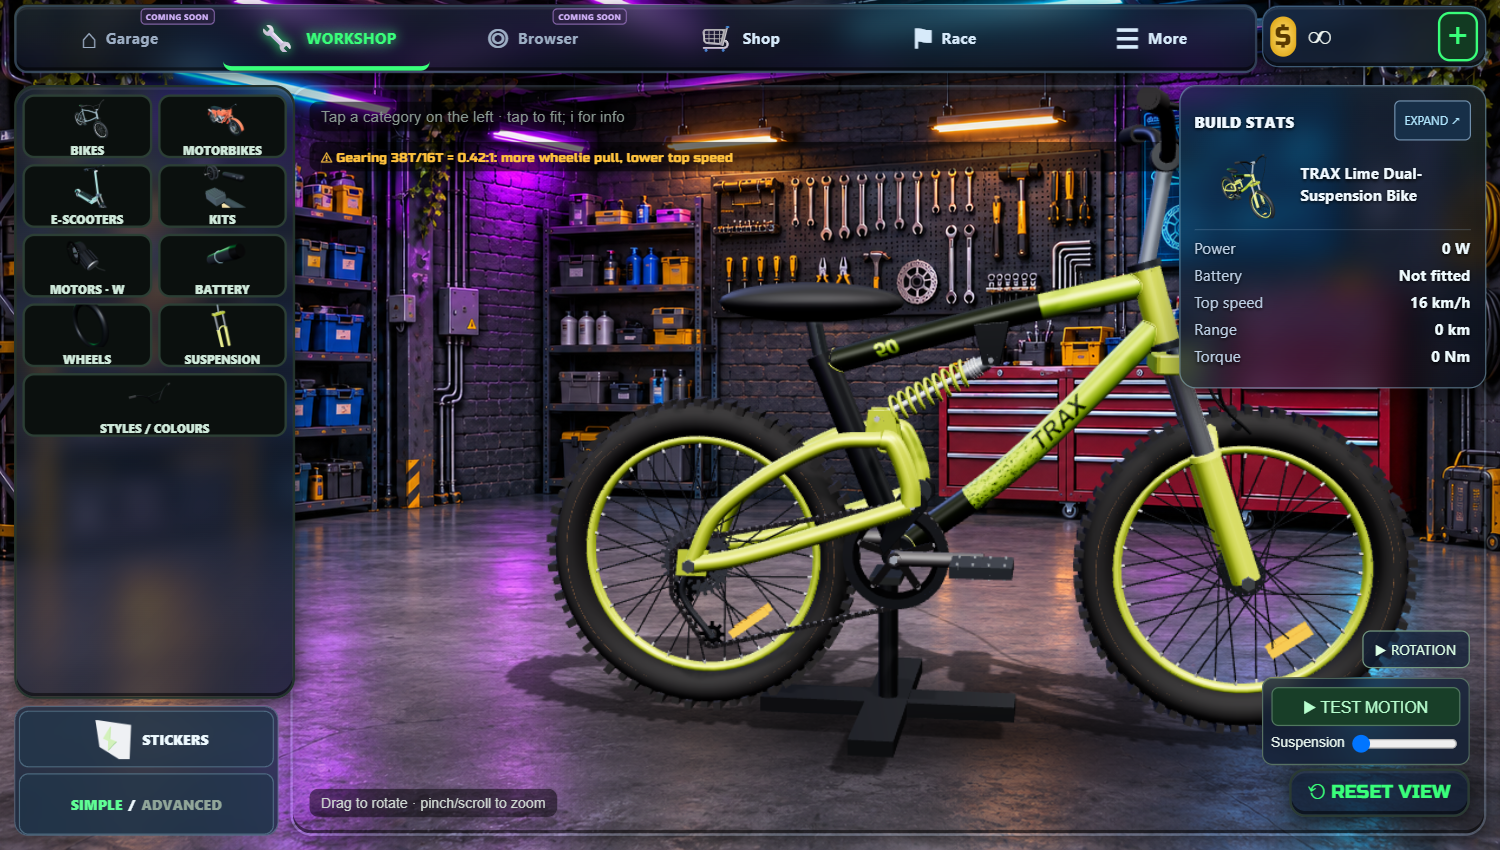
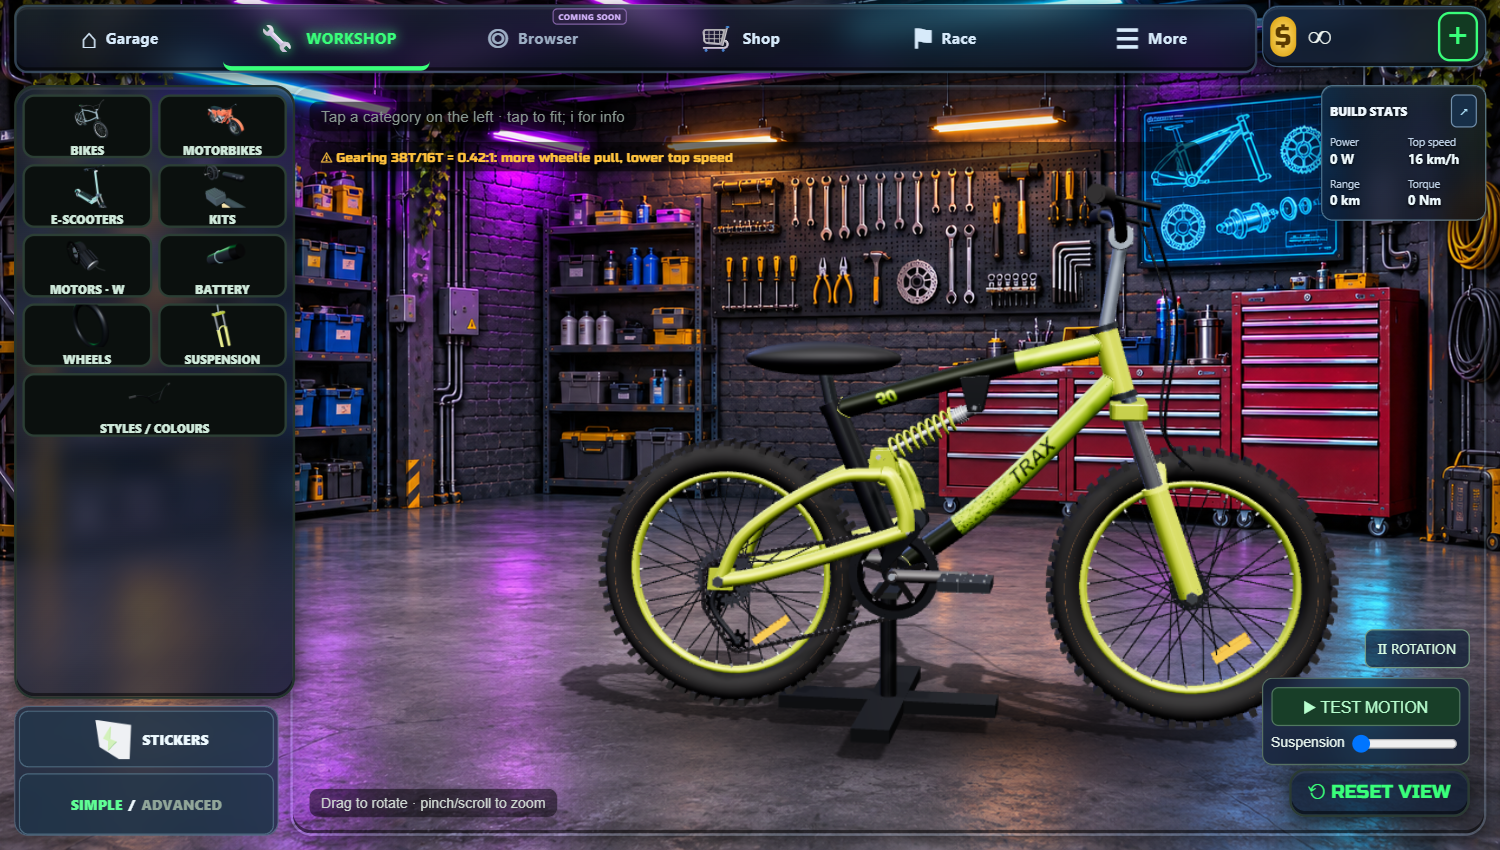
Frame workshop opening and reset view around the complete bike

diff --git a/workshop-presentation.js b/workshop-presentation.js
@@ -2,8 +2,14 @@ import {part} from './modular-catalogue.js';
 import {prototypeFor} from './vehicle-platforms.js';
 import * as T from './vendor/three.module.js';
 let summary,lastView,lastRoot,lastKey='',lastPlatform;
-function fitVehicle(v,root){const bounds=new T.Box3().setFromObject(root),sphere=bounds.getBoundingSphere(new T.Sphere()),center=sphere.center.clone(),dir=v.camera.position.clone().sub(v.controls.target).normalize(),half=v.camera.fov*Math.PI/360,dist=sphere.radius/Math.sin(Math.min(half,Math.atan(Math.tan(half)*v.camera.aspect)))*.86;center.x=v.orbitAnchor?.x??center.x;v.camera.zoom=1;v.camera.position.copy(center).addScaledVector(dir,dist);v.controls.target.copy(center);v.camera.updateProjectionMatrix();v.controls.update();}
-document.addEventListener('click',e=>{if(e.target.closest('[data-wk-reset]')&&prototypeFor(globalThis.__WK_BUILD__?.frame))setTimeout(()=>{const v=globalThis.__WK_VIEW__;let root;v.scene.traverse(o=>{if(o.name==='wk:frame')root=o.parent});if(root)fitVehicle(v,root)},0)});
+function fitVehicle(v,root){
+ root.updateWorldMatrix(true,true);const bounds=new T.Box3().setFromObject(root),center=bounds.getCenter(new T.Vector3());if(bounds.isEmpty())return;
+ center.x=v.orbitAnchor?.x??center.x;center.z=v.orbitAnchor?.z??center.z;
+ const direction=new T.Vector3(.16,.12,1).normalize(),right=new T.Vector3().crossVectors(new T.Vector3(0,1,0),direction).normalize(),up=new T.Vector3().crossVectors(direction,right),tanV=Math.tan(v.camera.fov*Math.PI/360),tanH=tanV*v.camera.aspect;
+ let distance=.8;for(const x of [bounds.min.x,bounds.max.x])for(const y of [bounds.min.y,bounds.max.y])for(const z of [bounds.min.z,bounds.max.z]){const q=new T.Vector3(x,y,z).sub(center),depth=q.dot(direction);distance=Math.max(distance,Math.abs(q.dot(right))/(tanH*.89)+depth,Math.abs(q.dot(up))/(tanV*.88)+depth)}
+ const damping=v.controls.enableDamping,rotating=v.controls.autoRotate;v.controls.autoRotate=false;v.controls.enableDamping=false;v.controls.update();v.camera.zoom=1;v.camera.position.copy(center).addScaledVector(direction,distance);v.controls.target.copy(center);v.camera.updateProjectionMatrix();v.controls.update();v.controls.enableDamping=damping;v.controls.autoRotate=rotating;
+}
+ document.addEventListener('click',e=>{if(e.target.closest('[data-wk-reset]'))setTimeout(()=>{const v=globalThis.__WK_VIEW__;if(!v)return;let root;v.scene.traverse(o=>{if(o.name==='wk:frame')root=o.parent});if(root)fitVehicle(v,root)},0)});
 const style=document.createElement('style');style.textContent=`
 html,body{background:#080c16 url('./icons/neon-garage-background.png') center/cover fixed no-repeat}#root>div,[data-stage]{background:transparent!important}[data-scene]{background:transparent!important;border-color:#9bc4dc33!important}[data-scene]>div:first-child,[data-scene]>div:nth-child(2){display:none!important}[data-wk-header]{background:#0c172675;border:1px solid #9abbd438;border-radius:10px;backdrop-filter:blur(9px);-webkit-backdrop-filter:blur(9px)}[data-wk-mode-toggle],[data-wk-header]>div:last-child{background:#15284288!important;backdrop-filter:blur(12px);-webkit-backdrop-filter:blur(12px);border:1px solid #8ac8ee55!important}[data-fitpanel]{background:#13243c9e!important;backdrop-filter:blur(12px);-webkit-backdrop-filter:blur(12px)}
 [data-wk-old-light]{display:none!important}
@@ -26,10 +32,11 @@ function update(){
  const v=globalThis.__WK_VIEW__,garage=v?.renderer.domElement.isConnected&&!document.querySelector('[data-ride]');if(!garage){delete document.body.dataset.wkWorkshop;return;}document.body.dataset.wkWorkshop='';
  if(v.stage&&lastView!==v){lastView=v;v.stage.floor.visible=false;v.stage.ring.visible=false;const [key,rim,fill]=v.stage.lights;key.color.set('#fff0f5');rim.color.set('#829bff');fill.color.set('#bc6dff');rim.intensity=1.9;fill.intensity=.7;}
  let root;v.scene.traverse(o=>{if(o.name==='wk:frame')root=o.parent});if(root&&root!==lastRoot){lastRoot=root;const a=root.userData.wkAnchors?.bb||[0,0],anchor=root.localToWorld(root.position.clone().set(a[0]-.02,0,0));v.orbitAnchor=anchor;if(v.controls.autoRotate){v.camera.position.x+=anchor.x-v.controls.target.x;v.camera.position.z+=anchor.z-v.controls.target.z;v.controls.target.x=anchor.x;v.controls.target.z=anchor.z;v.controls.update()}}
+ if(root&&!v.wkOpeningFramed&&v.renderer.domElement.clientWidth&&v.camera.aspect>0){fitVehicle(v,root);v.wkOpeningFramed=true;}
  const rail=document.querySelector('[data-rail="right"]');if(!rail)return;const expand=rail.querySelector(':scope > button:first-child');if(expand)expand.dataset.wkExpandStats='';
  document.querySelector('[data-statspanel] button')?.setAttribute('data-wk-collapse-stats','');
  for(const button of document.querySelectorAll('[data-scene]>button'))if(button.textContent.includes('RESET VIEW'))button.dataset.wkReset='';
- const b=globalThis.__WK_BUILD__;if(!b)return;if(lastPlatform!==globalThis.__WK_BASE_ID__(b.frame)){lastPlatform=globalThis.__WK_BASE_ID__(b.frame);if(prototypeFor(b.frame)&&root)fitVehicle(v,root);}
+ const b=globalThis.__WK_BUILD__;if(!b)return;if(lastPlatform!==globalThis.__WK_BASE_ID__(b.frame)){lastPlatform=globalThis.__WK_BASE_ID__(b.frame);if(root)fitVehicle(v,root);}
  if(!summary){summary=document.createElement('section');summary.id='wk-summary';summary.dataset.wkSummary='';summary.setAttribute('aria-label','Build summary');summary.innerHTML='<header><span>BUILD STATS</span><button data-wk-expand-stats aria-label="Expand build stats">↗</button></header><div class="bike"><img alt="Current complete bike"><span class="name"></span></div><dl></dl>';summary.querySelector('button').onclick=()=>document.querySelector('[data-rail="right"]>button:first-child')?.click();}
  if(summary.parentElement!==rail)rail.append(summary);
  const metrics=new Map([...rail.querySelectorAll('[data-wk-stat]')].map(e=>[e.dataset.wkStat,e.querySelector('span')?.textContent||'0'])),battery=part(b.battery),key=JSON.stringify(b)+[...metrics.values()].join(':');if(key===lastKey)return;lastKey=key;

diff --git a/sw.js b/sw.js
@@ -1,4 +1,4 @@
-const CACHE = "wk-v18-sticker-studio-1";
+const CACHE = "wk-v18-workshop-framing-2";
 const SHELL = ["./sticker-editor.js", "./garage-gizmo.js", "./garage-room3d.js", "./rider-spec.js", "./gear-catalogue.js", "./gear-state.js", "./gear-models.js", "./garage-state.js", "./player-view3d.js", "./player-lounge.js", "./icons/showroom-background.png", "./icons/rider-shop-background.png", "./vehicle-platforms.js", "./vehicle-models.js", "./workshop-mobile.js", "./race-launch.js", "./crash-physics.js", "./crash-rig.js", "./terrain-profile.js", "./workshop-navigation.js", "./workshop-presentation.js", "./icons/neon-garage-background.png", "./ride-environment.js", "./rider-model.js", "./sticker-trace.js", "./sticker-picker.js", "./ride-scenery.js", "./ride-tricks.js", "./category-icons.js", "./ride-controls.js", "./icons/neon-skatepark-background.png", "./builder-mode.js", "./", "./index.html", "./app.js", "./stickers-dd.js", "./parts3d.js", "./fitment.js", "./partmodels.js", "./thumbs.js", "./ride.js", "./ride-physics.js", "./detail.js", "./frame-geometry.js", "./trax-bike.js", "./trax-suspension.js", "./bike-motion.js", "./modular-catalogue.js", "./modular-render.js", "./vendor/DecalGeometry.js", "./manifest.webmanifest", "./vendor/three.module.js", "./vendor/OrbitControls.js", "./vendor/RoomEnvironment.js", "./icons/icon-192.png", "./icons/maskable-192.png", "./icons/icon-512.png", "./icons/maskable-512.png", "./icons/apple-touch-icon-180.png", "./stickers/wombat-scooter.png", "./stickers/wombat-emoto.png", "./stickers/wombat-footpath.png", "./stickers/holo-badge.png", "./stickers/eshay.png", "./stickers/baked-wombat.png"];
 self.addEventListener("install", (e) => { e.waitUntil(caches.open(CACHE).then((c) => c.addAll(SHELL)).then(() => self.skipWaiting())); });
 self.addEventListener("activate", (e) => { e.waitUntil(caches.keys().then((ks) => Promise.all(ks.filter((k) => k !== CACHE).map((k) => caches.delete(k)))).then(() => self.clients.claim())); });

diff --git a/CODEX-HANDOFF.md b/CODEX-HANDOFF.md
@@ -4,8 +4,8 @@ Updated 6 Nov 2026. This is the single current instruction page. Replace the res
 
 ## Resume
 
-- Branch: `wip/v18-detail`; completed batches also go to `main` and https://wheelie-king.pages.dev. Runtime: `wk-v18-sticker-studio-1`.
-- Workshop: renamed builder, same layout. Full-screen neon static garage image behind editable 3D bike and frosted panels; old green turntable hidden. Compact top-right bike/stats card expands the existing glass panel. Sticker drawer does not resize the bike viewport. Parts replace the category rail; ✓/✕ preview retains the open parts drawer and adds separate confirmation controls. Bikes cards show complete assemblies, not just frames. More accessory categories now have rendered 3D pictures.
+- Branch: `wip/v18-detail`; completed batches also go to `main` and https://wheelie-king.pages.dev. Runtime: `wk-v18-workshop-framing-2`.
+- Workshop: opening and Reset View now use a larger near-side-on framing fitted to full vehicle bounds, centred around the stand anchor. Drag/pan/zoom and rotation preference remain. Renamed builder, same layout. Full-screen neon static garage image behind editable 3D bike and frosted panels; old green turntable hidden. Compact top-right bike/stats card expands the existing glass panel. Sticker drawer does not resize the bike viewport. Parts replace the category rail; ✓/✕ preview retains the open parts drawer and adds separate confirmation controls. Bikes cards show complete assemblies, not just frames. More accessory categories now have rendered 3D pictures.
 - Navigation: Garage and Shop now open standalone player rooms under the existing top bar. Workshop and Race remain available; Browser is still Coming Soon. Shop has persistent clothing categories, featured gear/bundles, item details, try-on, purchases and equipping. More contains My Builds/Challenges/Settings.
 - Builder: Simple default/Advanced, compatible plans, separate complete Bikes/conversion Kits, nested colours, preview recovery, rotation pause, quiet automatic removals. Infinite money on; repairs paused. TRAX wheel size is confirmed 20 inch; other photo dimensions remain estimates.
 - Sticker picker: full middle-panel frosted gallery with large responsive art cards, All/Mine, search and Custom. Selection clears gallery for bike placement; info and content gates retained. Mini stats reduced to four small labelled metrics plus expand; gallery hides it.

diff --git a/CHANGELOG.md b/CHANGELOG.md
@@ -1,3 +1,8 @@
+# Workshop opening view — 6 Nov 2026
+
+- Open and Reset View frame the whole bike larger and nearly side-on, matching the requested placement.
+- Fit uses actual vehicle bounds and viewport aspect, retaining stand-centred orbit and rotation preferences.
+
 # Full sticker studio and compact stats — 6 Nov 2026
 
 - Full middle-panel frosted sticker gallery with large previews, All/Mine, search and Custom.
